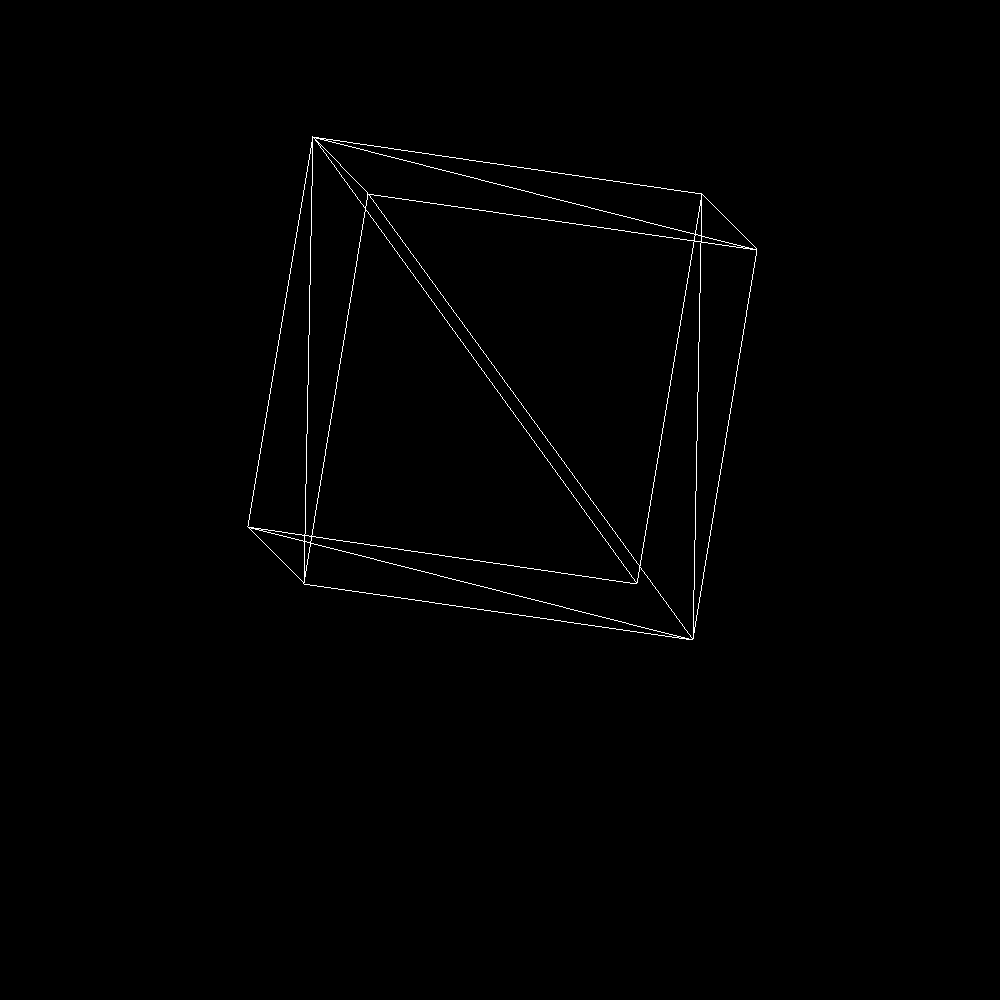
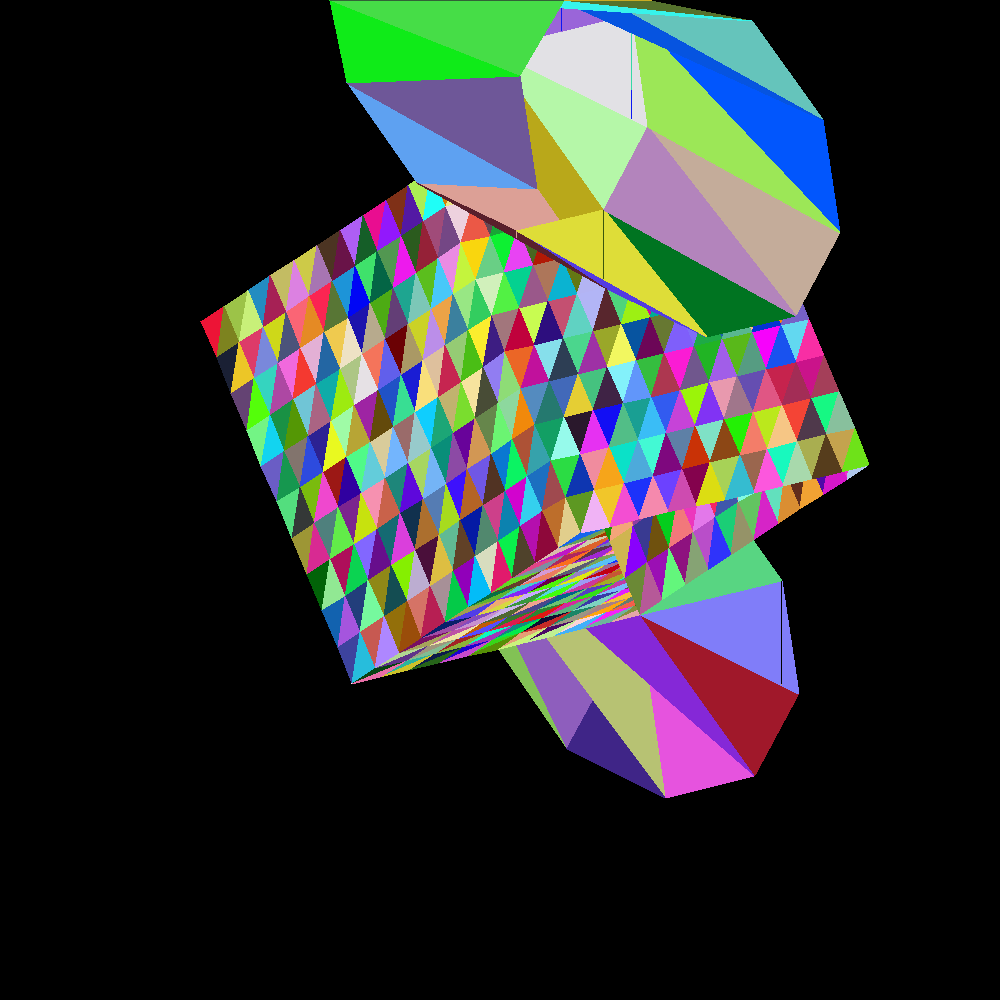
colours and stuff work mostly

diff --git a/a1.py b/a1.py
@@ -5,6 +5,7 @@ import math, time, sys, array, os, copy, itertools
 from itertools import cycle
 from operator import attrgetter
 import numpy as np
+import random
 from PIL import Image
 
 
@@ -17,6 +18,7 @@ class RGB:
         self.cRed = red
         self.cBlue = blue
         self.cGreen = green
+
 
     def printing(self):
         print(self.cRed)
@@ -61,6 +63,14 @@ class polygon:
         self.point1 = p1
         self.point2 = p2
         self.point3 = p3
+        self.red = 0
+        self.green = 0
+        self.blue = 0
+
+    def setCol(self, r, g, b):
+        self.red = r
+        self.green = g
+        self.blue = b
 
     def values(self):
         return [self.point1, self.point2, self.point3]
@@ -189,42 +199,6 @@ def zTransform(points, angle):
         i.set_y(newy)
 
 
-def rasterize(point1, point2, image):
-    """Rasterize a line between two points
-
-    This function will rasterize a line between two points using the DDA
-
-    Arguments:
-        point1 {coord} -- A coord object which specifies the first point to rasterize
-        point2 {coord} -- A coord object which specifies the second point to rasterize
-        image {List of RGB} -- The image matrix which stores each points RGB value
-    """
-    dx = abs(point2.get_x() - point1.get_x())
-    dy = abs(point2.get_y() - point1.get_y())
-
-    if dx > dy:
-        length = dx
-    elif dy > dx:
-        length = dy
-    else:
-        length = 1
-
-    dx = (point2.get_x() - point1.get_x())/float(length)
-    dy = (point2.get_y() - point1.get_y())/float(length)
-
-    x = point1.get_x()
-    y = point1.get_y()
-    image[math.ceil(x)][math.ceil(y)].cRed = 255
-    image[math.ceil(x)][math.ceil(y)].cGreen = 255
-    image[math.ceil(x)][math.ceil(y)].cBlue = 255
-
-    for i in range(length-1):
-        x += dx
-        y += dy
-        image[math.ceil(x)][math.ceil(y)].cRed = 255
-        image[math.ceil(x)][math.ceil(y)].cGreen = 255
-        image[math.ceil(x)][math.ceil(y)].cBlue = 255
-
 
 def dotProduct(v1, v2):
     return sum(i * j for i, j in zip(v1, v2))
@@ -336,7 +310,7 @@ def cylinder(resolution, mesh, vol, isScene, xangle, yangle, zangle):
             polyList.append(polygon(connList1[1], first, second))
 
         # making the last connection on first circle
-        
+
         polyList.append(polygon(connList1[1], connList1[-1], connList1[2]))
 
         # connect all points in second circle of cylinder
@@ -578,7 +552,7 @@ def newGrid(res, points, vol, squares):
             gap = int((max(p1[1], p2[1], p3[1], p4[1]) - min(p1[1], p2[1], p3[1], p4[1])) / res)
             start = min(p1[1], p2[1], p3[1], p4[1])
             end = max(p1[1], p2[1], p3[1], p4[1])
-            
+
 
             # grid creation of square surface, storing each square in the row
             for l in range(start, end+1, gap):
@@ -608,7 +582,7 @@ def newGrid(res, points, vol, squares):
             gap = int((max(p1[2], p2[2], p3[2], p4[2]) - min(p1[2], p2[2], p3[2], p4[2])) / res)
             start = min(p1[2], p2[2], p3[2], p4[2])
             end = max(p1[2], p2[2], p3[2], p4[2])
-           
+
             # loop from start to end, jumping each gap interval, and store the point into a list
             for l in range(start, end+1, gap):
                 sampleList = []
@@ -636,7 +610,7 @@ def newGrid(res, points, vol, squares):
 
             start = min(p1[0], p2[0], p3[0], p4[0])
             end = max(p1[0], p2[0], p3[0], p4[0])
-            
+
 
             # grid triangulation on z axis faces
             for l in range(start, end+1, gap):
@@ -695,7 +669,7 @@ def viewTransform(pointMatrix):
 
 def backFaceCulling(polygons):
 
-    
+
     count = 0
     print(len(polygons))
 
@@ -706,20 +680,18 @@ def backFaceCulling(polygons):
         p2 = k.point2
         p3 = k.point3
 
-        
-        
         vector1 = vectorSub(p2.send_vals(), p1.send_vals())
         vector2 = vectorSub(p3.send_vals(), p1.send_vals())
 
         normal = crossProduct(vector1, vector2)
 
-        negativeP1 = [p1.get_x() - 500, p1.get_y() - 500, p1.get_z() - 500]
+        negativeP1 = [p1.get_x() - 500, p1.get_y() - 500, p1.get_z() + 800]
 
         final = dotProduct(negativeP1, normal)
 
-        
 
-        if final >= 0:
+
+        if final <= 0:
             count += 1
             deleteList.append(k)
 
@@ -727,10 +699,6 @@ def backFaceCulling(polygons):
     print("count is", count)
 
     return deleteList
-
-
-
-
 
 
 def scene(mesh, resolution, volume, isScene):
@@ -775,19 +743,19 @@ def scene(mesh, resolution, volume, isScene):
 
     matricies = []
     polygons = []
-    
+
 
     # create the cube
     polyList1 = cube(resolution, mesh, isScene, xangle, yangle, zangle, volume)
 
     # create the cylinder
     polyList2 = cylinder(resolution, mesh, volume, isScene, xangle, yangle, zangle)
-    
-    # create the cone 
+
+    # create the cone
     polyList3 = cone(resolution, mesh, volume, isScene, xangle, yangle, zangle)
-    
+
     # combine the polygons into 1 list
-    polygons = polyList1
+    polygons = polyList3 + polyList1 + polyList2
 
     flattened = []
 
@@ -795,13 +763,13 @@ def scene(mesh, resolution, volume, isScene):
     for k in polygons:
         if k.point1 not in flattened:
             flattened.append(k.point1)
-        
+
         if k.point2 not in flattened:
             flattened.append(k.point2)
 
         if k.point3 not in flattened:
             flattened.append(k.point3)
-       
+
     # transform points
     translate(flattened, 500)
     rotation(flattened, xangle, yangle, zangle)
@@ -813,33 +781,134 @@ def scene(mesh, resolution, volume, isScene):
     delete = backFaceCulling(polygons)
 
     for k in polygons:
-        for j in k.values():
-            print(j.send_vals())
+        x = random.randint(0, 255)
+        y = random.randint(0, 255)
+        z = random.randint(0, 255)
+        k.setCol(x, y, z)
 
-    print("break")
-
-    for k in delete:
-        for j in k.values():
-            print(j.send_vals())
-
-    print("poly is", len(polygons), "delete is", len(delete))
-
-    final = set(polygons) - set(delete)
-
-    print(len(final))
-
-    for k in final:
-        for j in k.values():
-            print(j.send_vals())
-
-
-    for k in flattened:
-        for j in final:
-
-
-    image, matrix4 = imaging(flattened, "final.png", final)
+    image, matrix4 = imaging(flattened, "final.png", polygons)
 
     return 0
+
+
+def zBuffer(polygons):
+    frameBuffer = []
+    depthBuffer = []
+
+    for value in polygons:
+        print(value)
+
+
+def newRaster(polygon, image):
+    p1 = polygon.point1
+    p2 = polygon.point2
+    p3 = polygon.point3
+
+    red = polygon.red
+    green = polygon.green
+    blue = polygon.blue
+
+    edge1 = [p1, p2]
+    edge2 = [p1, p3]
+    edge3 = [p2, p3]
+
+    edges = [edge1, edge2, edge3]
+    edgePoints = []
+
+    for vals in edges:
+        dx = abs(vals[1].get_x() - vals[0].get_x())
+        dy = abs(vals[1].get_y() - vals[0].get_y())
+
+        if dx > dy:
+            length = dx
+        elif dy > dx:
+            length = dy
+        else:
+            length = 1
+
+        dx = (vals[1].get_x() - vals[0].get_x())/float(length)
+        dy = (vals[1].get_y() - vals[0].get_y())/float(length)
+
+
+
+        dz = ((vals[1].get_z() - vals[0].get_z()) / (float(length)))
+
+
+
+        x = vals[0].get_x()
+        y = vals[0].get_y()
+        z = vals[0].get_z()
+        image[math.ceil(x)][math.ceil(y)].cRed = red
+        image[math.ceil(x)][math.ceil(y)].cGreen = green
+        image[math.ceil(x)][math.ceil(y)].cBlue = blue
+
+        edgePoints.append([math.ceil(x), math.ceil(y), math.ceil(dz)])
+
+        for i in range(length-1):
+            x += dx
+            y += dy
+            z += dz
+
+            image[math.ceil(x)][math.ceil(y)].cRed = red
+            image[math.ceil(x)][math.ceil(y)].cGreen = green
+            image[math.ceil(x)][math.ceil(y)].cBlue = blue
+            edgePoints.append([math.ceil(x), math.ceil(y), math.ceil(z)])
+
+    miny = 2000
+    maxy = 0
+
+    minz = 2000
+    maxz = 0
+
+    for k in edgePoints:
+        if k[1] > maxy:
+            maxy = k[1]
+        if k[1] < miny:
+            miny = k[1]
+
+        if k[2] > maxz:
+            maxz = k[2]
+        if k[2] < minz:
+            minz = k[2]
+
+    zBuffer = [[5000 for j in range(1000)] for k in range(1000)]
+
+    for y in range(miny, maxy, 1):
+        minx = 2000
+        maxx = 0
+
+        for val in edgePoints:
+            if val[1] == y:
+                if val[0] < minx:
+                    minx = val[0]
+
+                if val[0] > maxx:
+                    maxx = val[0]
+
+
+
+        for val in edgePoints:
+            if val[1] == y and val[0] == maxx:
+                maxz = val[2]
+
+            if val[1] == y and val[0] == minx:
+                minz = val[2]
+
+        if maxx - minx == 0:
+            delta = 0
+        else:
+            delta = (maxz - minz) / (maxx - minx)
+
+        z = minz
+
+        for x in range(minx, maxx, 1):
+            z += delta
+
+            if z < zBuffer[x][y]:
+                zBuffer[x][y] = math.ceil(z)
+                image[math.ceil(x)][math.ceil(y)].cRed = red
+                image[math.ceil(x)][math.ceil(y)].cGreen = green
+                image[math.ceil(x)][math.ceil(y)].cBlue = blue
 
 
 def spherical(matrix, xAngle, yAngle):
@@ -868,7 +937,6 @@ def imaging(matrix, name, polyList):
         image[i.get_x()][i.get_y()].cGreen = 255
         image[i.get_x()][i.get_y()].cBlue = 255
 
-    print(len(polyList))
 
     # rasterize each of the polygons
     for val in polyList:
@@ -877,9 +945,12 @@ def imaging(matrix, name, polyList):
         # find all combinations of 2 points in 3 point polygon
         new = list(itertools.combinations(key, 2))
 
+        newRaster(val, image)
+
         # connect each point pair together, which forms a triangle
-        for k in new:
-            rasterize(k[0], k[1], image)
+        # for k in new:
+        #     print(k[0].send_vals(), k[1].send_vals())
+        #     rasterize(k[0], k[1], image)
 
     newImage = image
 
